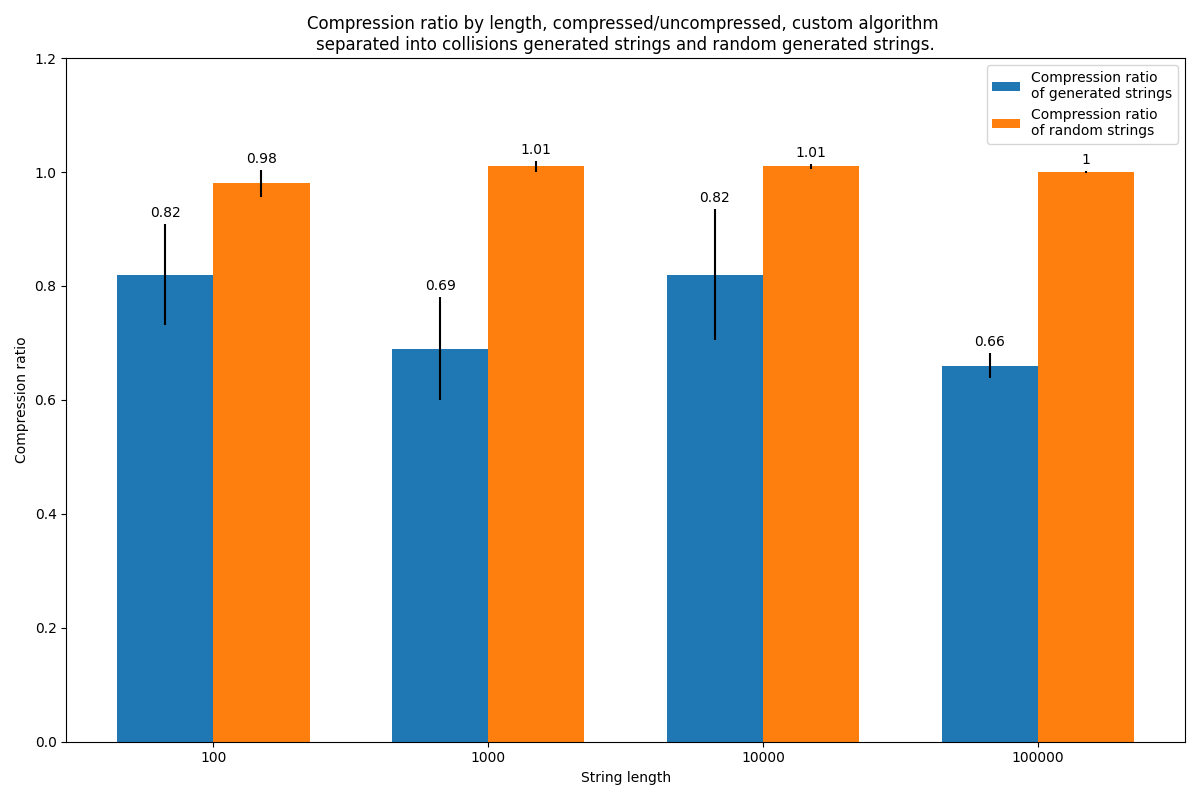
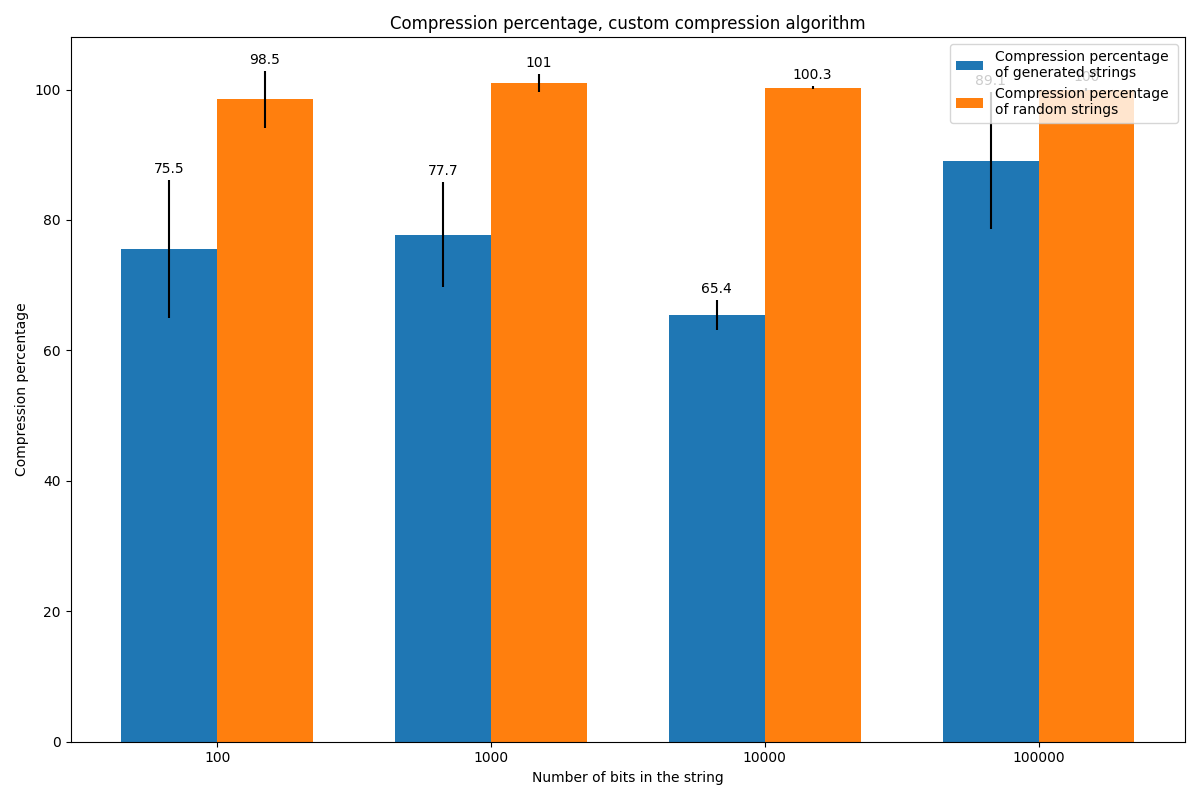
Refactor bar plot creation

diff --git a/compression_comparison/compression_custom_comparison.py b/compression_comparison/compression_custom_comparison.py
@@ -1,6 +1,5 @@
 import numpy as np
 import matplotlib.pyplot as plt
-import sys
 from auxiliary import *
 
 encoder = RunLengthEncoder()
@@ -61,47 +60,21 @@ percentage_random = [
     for rand, sized in zip(rand_size_means, compressed_random)
 ]
 
-perc_gen_means = [round(np.mean(size), 2) for size in percentage_generated]
-perc_gen_stds = [jacknife_error(size) for size in percentage_generated]
+perc_gen_means = [100*round(np.mean(size), 3) for size in percentage_generated]
+perc_gen_stds = [100*jacknife_error(size) for size in percentage_generated]
 
-perc_rand_means = [round(np.mean(size), 2) for size in percentage_random]
-perc_rand_stds = [jacknife_error(size) for size in percentage_random]
+perc_rand_means = [100*round(np.mean(size), 3) for size in percentage_random]
+perc_rand_stds = [100*jacknife_error(size) for size in percentage_random]
 
-
-fig, ax = plt.subplots(figsize=(12, 8))
 labels = [str(length) for length in lengths]
 
-x = np.arange(len(labels))
-width = 0.35
-
-rects1 = ax.bar(
-    x - width / 2,
-    perc_gen_means,
-    width,
-    yerr=perc_gen_stds,
-    label="Compression ratio \nof generated strings",
+comparative_barplot(
+    datas=[perc_gen_means, perc_rand_means],
+    yerrs=[perc_gen_stds, perc_rand_stds],
+    labels=["Compression percentage \nof generated strings", "Compression percentage \nof random strings"],
+    xticks=labels,
+    ylabel="Compression percentage",
+    xlabel="Number of bits in the string",
+    title="Compression percentage, custom compression algorithm",
+    filepath="Plots/comparison_graphs/compression_customb_comparison"
 )
-rects2 = ax.bar(
-    x + width / 2,
-    perc_rand_means,
-    width,
-    yerr=perc_rand_stds,
-    label="Compression ratio \nof random strings",
-)
-
-ax.set_ylabel("Compression ratio")
-ax.set_title(
-    "Compression ratio by length, compressed/uncompressed, custom algorithm \nseparated into collisions generated strings and random generated strings."
-)
-ax.set_xlabel("String length")
-ax.set_xticks(x, labels)
-ax.set_ylim(0, 1.2)
-ax.legend()
-
-ax.bar_label(rects1, padding=3)
-ax.bar_label(rects2, padding=3)
-
-fig.tight_layout()
-
-plt.savefig("Plots/comparison_graphs/compression_customb_comparison")
-plt.close()

diff --git a/compression_comparison/compression_bz2_comparison.py b/compression_comparison/compression_bz2_comparison.py
@@ -61,46 +61,21 @@ percentage_random = [
     for rand, sized in zip(rand_size_means, compressed_random)
 ]
 
-perc_gen_means = [round(np.mean(size), 2) for size in percentage_generated]
-perc_gen_stds = [jacknife_error(size) for size in percentage_generated]
+perc_gen_means = [100*round(np.mean(size), 3) for size in percentage_generated]
+perc_gen_stds = [100*jacknife_error(size) for size in percentage_generated]
 
-perc_rand_means = [round(np.mean(size), 2) for size in percentage_random]
-perc_rand_stds = [jacknife_error(size) for size in percentage_random]
+perc_rand_means = [100*round(np.mean(size), 3) for size in percentage_random]
+perc_rand_stds = [100*jacknife_error(size) for size in percentage_random]
 
-fig, ax = plt.subplots(figsize=(12, 8))
 labels = [str(length) for length in lengths]
 
-x = np.arange(len(labels))
-width = 0.35
-
-rects1 = ax.bar(
-    x - width / 2,
-    perc_gen_means,
-    width,
-    yerr=perc_gen_stds,
-    label="Compression ratio \nof generated strings",
+comparative_barplot(
+    datas=[perc_gen_means, perc_rand_means],
+    yerrs=[perc_gen_stds, perc_rand_stds],
+    labels=["Compression percentage \nof generated strings", "Compression percentage \nof random strings"],
+    xticks=labels,
+    ylabel="Compression percentage",
+    xlabel="Number of bits in the string",
+    title = "Compression percentage, bz2 compression algorithm",
+    filepath="Plots/comparison_graphs/compression_bz2_comparison"
 )
-rects2 = ax.bar(
-    x + width / 2,
-    perc_rand_means,
-    width,
-    yerr=perc_rand_stds,
-    label="Compression ratio \nof random strings",
-)
-
-ax.set_ylabel("Compression ratio")
-ax.set_title(
-    "Compression ratio by length, uncompressed/compressed, bz2 algorithm \nseparated into collisions generated strings and random generated strings."
-)
-ax.set_xlabel("String length")
-ax.set_xticks(x, labels)
-# ax.set_ylim(0, 1.5)
-ax.legend()
-
-ax.bar_label(rects1, padding=3)
-ax.bar_label(rects2, padding=3)
-
-fig.tight_layout()
-
-plt.savefig("Plots/comparison_graphs/compression_bz2_comparison")
-plt.close()

diff --git a/compression_comparison/compresion_zlib_comparison.py b/compression_comparison/compresion_zlib_comparison.py
@@ -61,45 +61,21 @@ percentage_random = [
     for rand, sized in zip(rand_size_means, compressed_random)
 ]
 
-perc_gen_means = [round(np.mean(size), 2) for size in percentage_generated]
-perc_gen_stds = [jacknife_error(size) for size in percentage_generated]
+perc_gen_means = [100*round(np.mean(size), 3) for size in percentage_generated]
+perc_gen_stds = [100*jacknife_error(size) for size in percentage_generated]
 
-perc_rand_means = [round(np.mean(size), 2) for size in percentage_random]
-perc_rand_stds = [jacknife_error(size) for size in percentage_random]
+perc_rand_means = [100*round(np.mean(size), 3) for size in percentage_random]
+perc_rand_stds = [100*jacknife_error(size) for size in percentage_random]
 
-
-fig, ax = plt.subplots(figsize=(12, 8))
 labels = [str(length) for length in lengths]
 
-x = np.arange(len(labels))
-width = 0.35
-
-rects1 = ax.bar(
-    x - width / 2,
-    perc_gen_means,
-    width,
-    yerr=perc_gen_stds,
-    label="Compression ratio \nof generated strings",
+comparative_barplot(
+    datas=[perc_gen_means, perc_rand_means],
+    yerrs=[perc_gen_stds, perc_rand_stds],
+    labels=["Compression percentage \nof generated strings", "Compression percentage \nof random strings"],
+    xticks=labels,
+    ylabel="Compression percentage",
+    xlabel="Number of bits in the string",
+    title="Compression percentage, zlib compression algorithm",
+    filepath="Plots/comparison_graphs/compression_zlib_comparison"
 )
-rects2 = ax.bar(
-    x + width / 2,
-    perc_rand_means,
-    width,
-    yerr=perc_rand_stds,
-    label="Compression ratio \nof random strings",
-)
-
-ax.set_ylabel("Compression percentage")
-ax.set_title("Compression percentage, zlib compression algorithm")
-ax.set_xlabel("String length")
-ax.set_xticks(x, labels)
-ax.set_ylim(0, 1.2)
-ax.legend()
-
-ax.bar_label(rects1, padding=3)
-ax.bar_label(rects2, padding=3)
-
-fig.tight_layout()
-
-plt.savefig("Plots/comparison_graphs/compression_zlib_comparison")
-plt.close()

diff --git a/compression_comparison/auxiliary.py b/compression_comparison/auxiliary.py
@@ -1,6 +1,7 @@
 import numpy as np
 import math
 import sqlite3
+import matplotlib.pyplot as plt
 
 
 def convert_to_string(tableName):
@@ -271,3 +272,46 @@ def percentage_and_error(strings, compressed):
     perc_means = [np.mean(group) for group in percentage]
     perc_errs = [jacknife_error(group) for group in percentage]
     return perc_means, perc_errs
+
+
+def comparative_barplot(
+    datas: list,
+    yerrs: list,
+    labels: list,
+    xticks: list,
+    ylabel: str,
+    xlabel: str,
+    title: str,
+    filepath: str,
+):
+    """_summary_
+
+    Args:
+        datas (list): _description_
+        yerrs (list): _description_
+        labels (list): _description_
+        xticks (list): _description_
+        ylabel (str): _description_
+        xlabel (str): _description_
+        title (str): _description_
+        filepath (str): _description_
+    """
+    fig, ax = plt.subplots(figsize=(12, 8))
+    x = np.arange(len(xticks))
+    width = 0.35
+    nbars = len(datas)
+
+
+    for i in range(2):
+        rects = ax.bar(x - width / 2 + 2*i/nbars*width, datas[i], width, yerr=yerrs[i], label=labels[i])
+        ax.bar_label(rects, padding=3)
+
+    ax.set_ylabel(ylabel)
+    ax.set_title(title)
+    ax.set_xlabel(xlabel)
+    ax.set_xticks(x, xticks)
+    ax.legend()
+
+    fig.tight_layout()
+    plt.savefig(filepath)
+    plt.close()

diff --git a/compression_comparison/entropy_comparison.py b/compression_comparison/entropy_comparison.py
@@ -46,40 +46,15 @@ rand_errs = [
     for group in random_strings
 ]
 
-fig, ax = plt.subplots(figsize=(12, 8))
 labels = [str(length) for length in lengths]
 
-x = np.arange(len(labels))
-width = 0.35
-
-rects1 = ax.bar(
-    x - width / 2,
-    generated_entropies,
-    width,
-    yerr=gen_errs,
-    label="Entropy of collision generated strings",
+comparative_barplot(
+    datas=[generated_entropies, random_entropies],
+    yerrs=[gen_errs, rand_errs],
+    labels=["Entropy of collision generated strings", "Entropy of random generated strings"],
+    xticks=labels,
+    ylabel="Entropy [bits]",
+    xlabel="Number of bits in the string",
+    title="Entropy by number of bits",
+    filepath="Plots/comparison_graphs/entropy_comparison"
 )
-rects2 = ax.bar(
-    x + width / 2,
-    random_entropies,
-    width,
-    yerr=rand_errs,
-    label="Entropy of random generated strings",
-)
-
-ax.set_ylabel("Entropy [bits]")
-ax.set_title(
-    "Entropy by string length, separated into collisions generated and random generated strings."
-)
-ax.set_xlabel("String length")
-ax.set_xticks(x, labels)
-ax.set_ylim(0, 1.2)
-ax.legend()
-
-ax.bar_label(rects1, padding=3)
-ax.bar_label(rects2, padding=3)
-
-fig.tight_layout()
-
-plt.savefig("Plots/comparison_graphs/entropy_comparison")
-plt.close()
